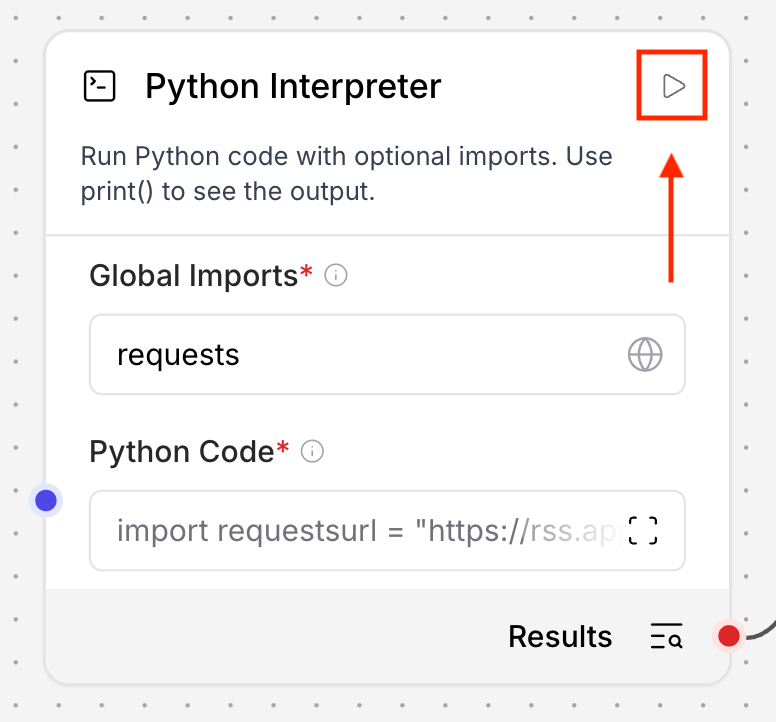
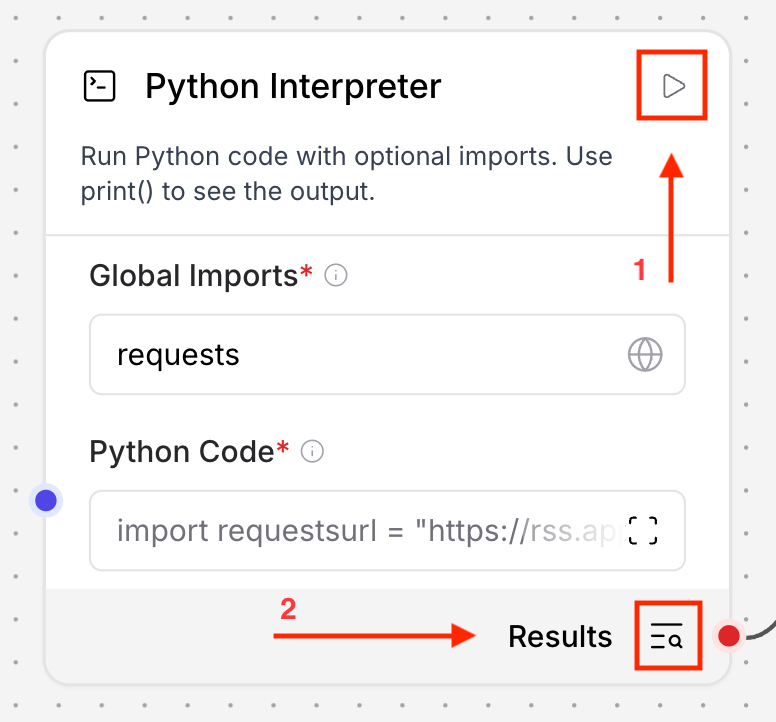
Update Chapter 3 with latest changes

Changed region(s): [[0.3402, 0.8227, 0.6186, 0.9141], [0.8041, 0.8227, 0.9278, 0.9446], [0.8041, 0.3657, 0.8351, 0.3961]]

diff --git a/chapters/Chapter_3_RSS_Feed_Integration.md b/chapters/Chapter_3_RSS_Feed_Integration.md
@@ -126,11 +126,12 @@ print(response.text[:20000])
 - Prints the HTTP status
 - Prints up to the first 20,000 characters of the feed so the downstream blocks can process it
 
-![Click Play Button](images/chapter-3/click_play_button.png)
 
 ### Try running it
 
-Run the workflow to see the result - you should see a successful HTTP status such as `200` and raw RSS/XML content in the output.
+![Click Play Button](images/chapter-3/click_play_button.png)
+
+Run the workflow to see the result - you should see a successful HTTP status such as `200` and raw RSS/XML content in the output. Then click the output button to see the output.
 
 ---
 